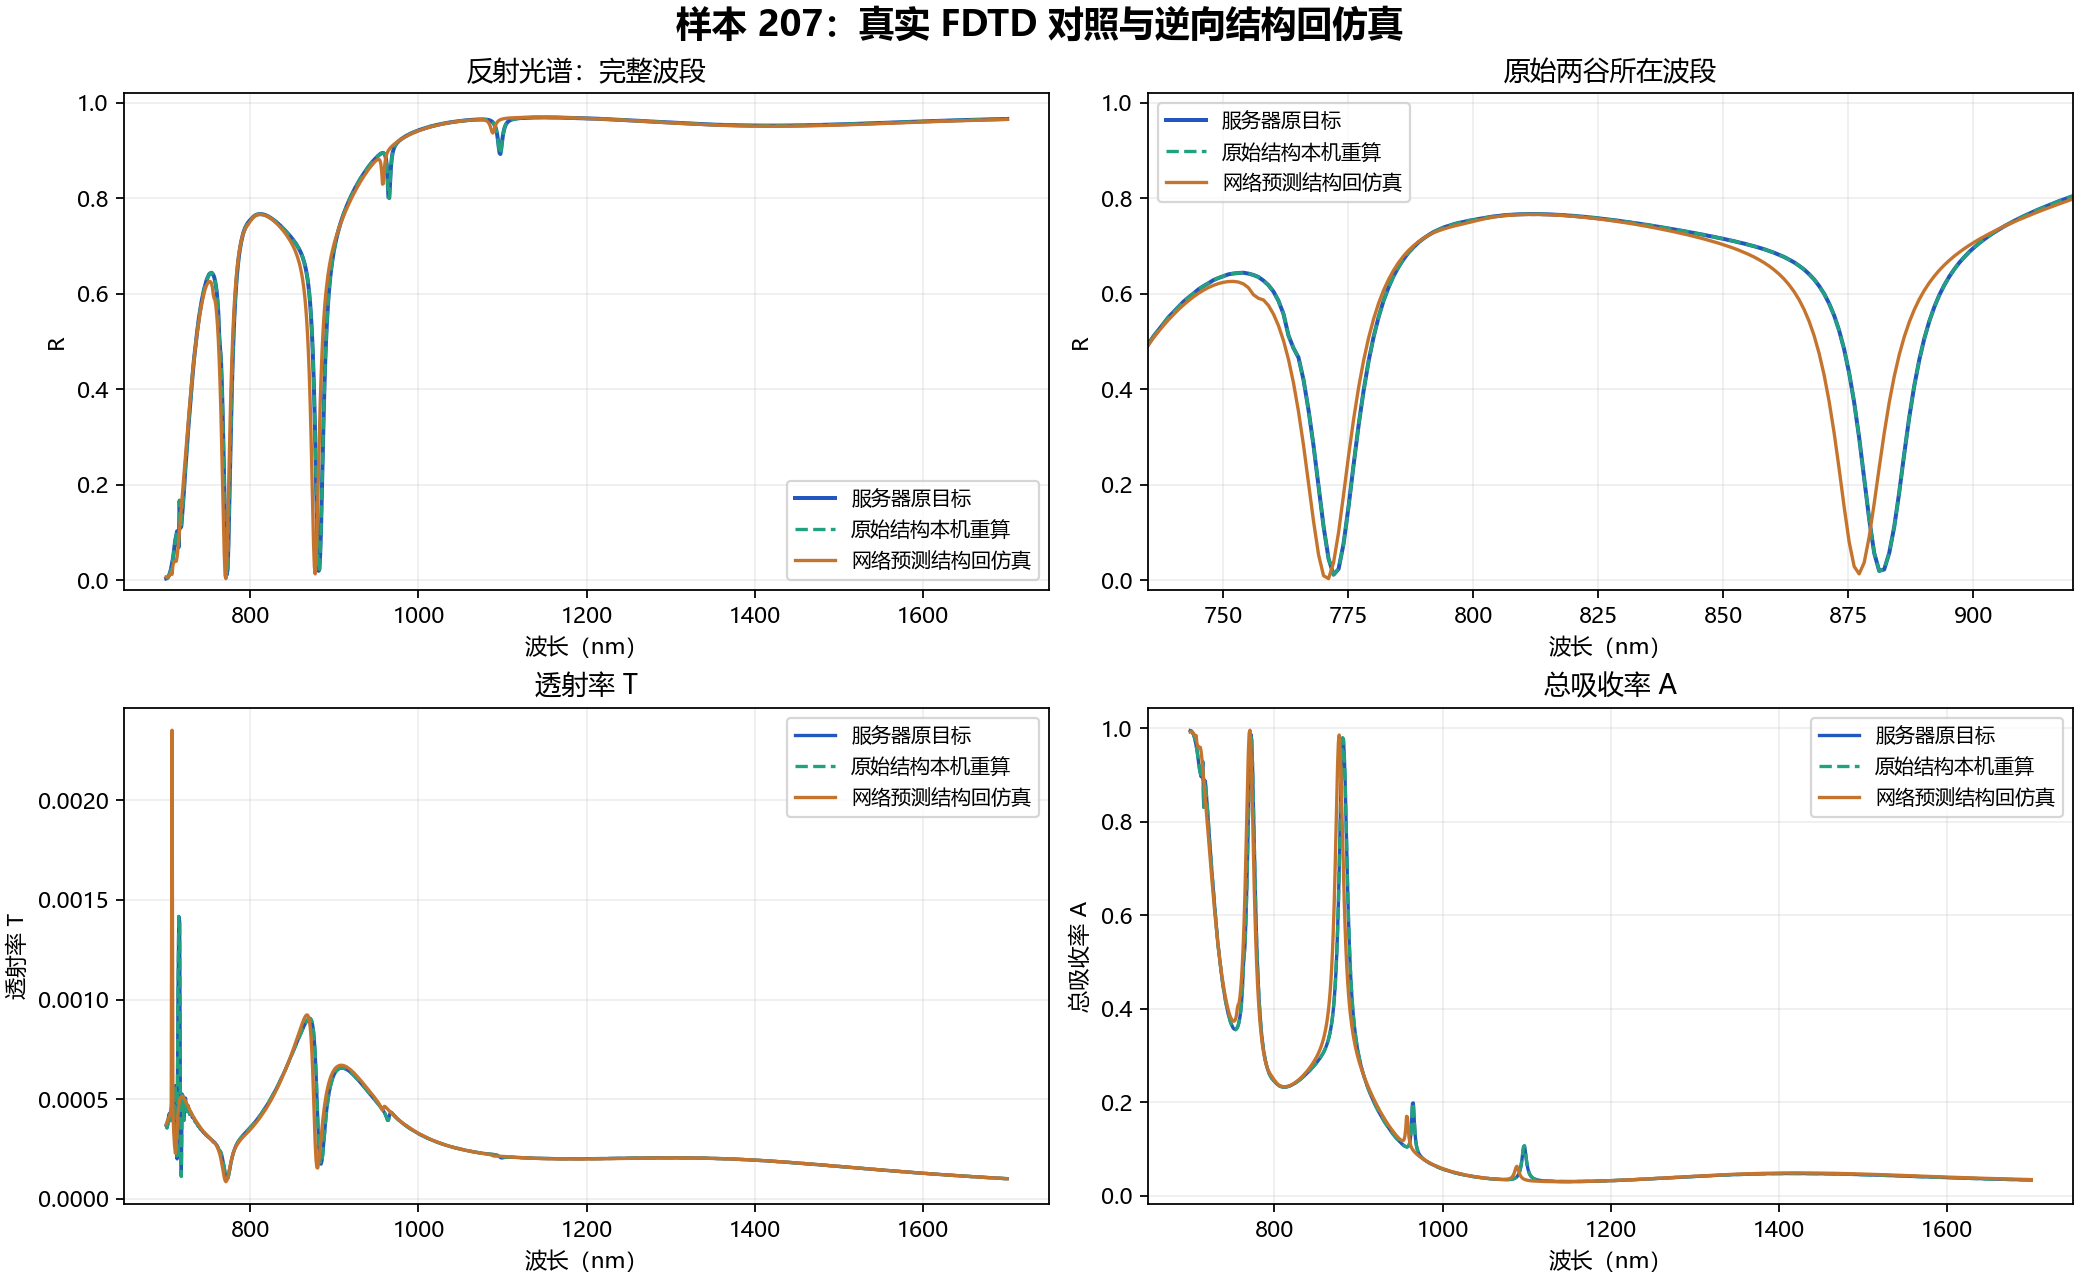
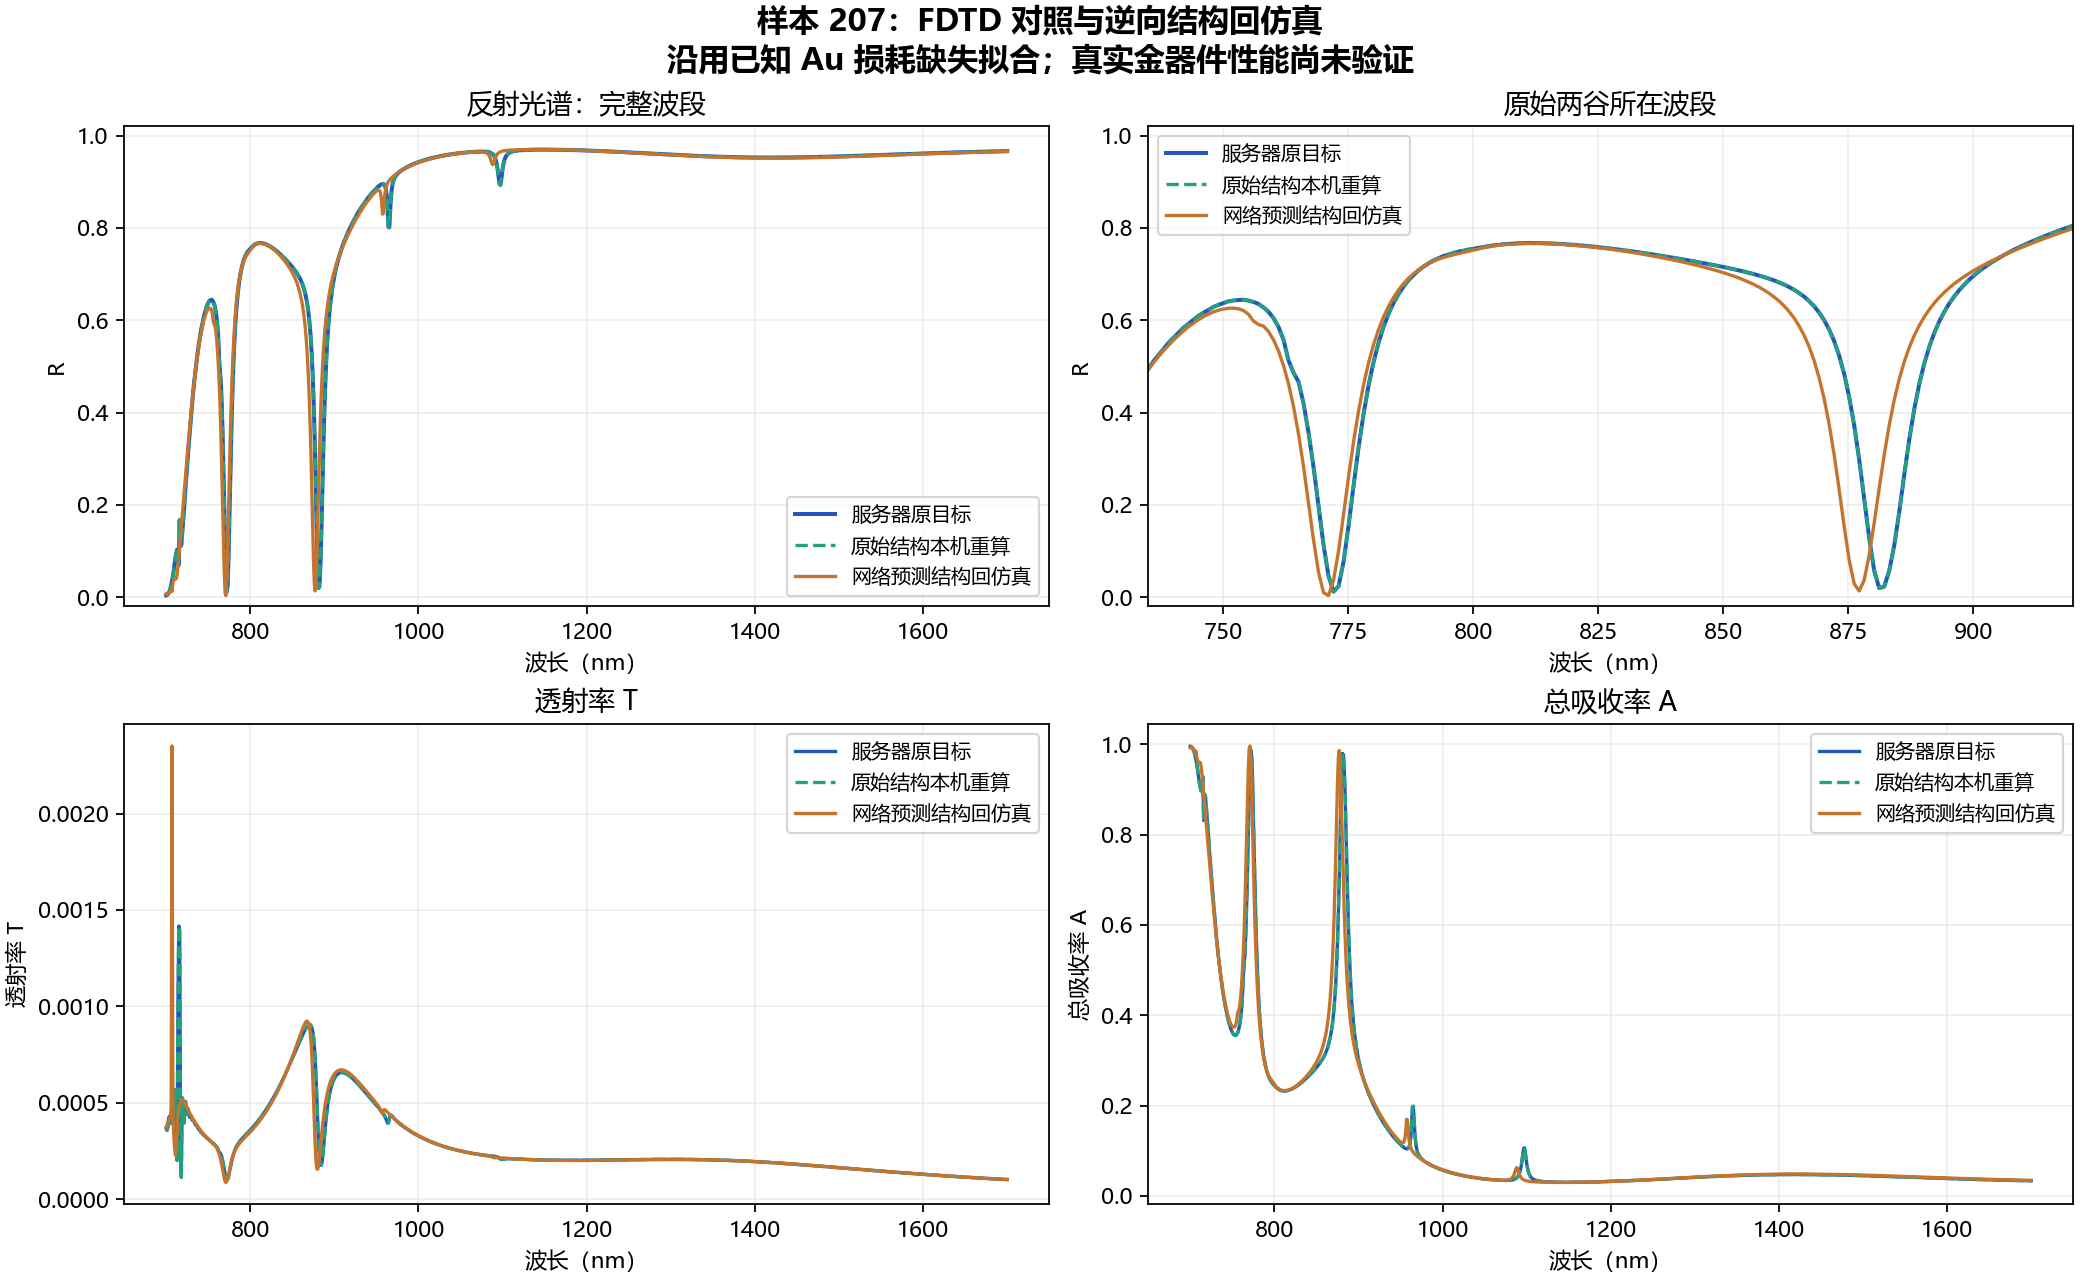
Clarify confirmed severe gold-loss fit limitation in server dataset

diff --git a/Metaformer_As2Se3/analyze_inverse207.py b/Metaformer_As2Se3/analyze_inverse207.py
@@ -17,6 +17,7 @@ OUTPUT=ROOT/'results/inverse_roundtrip_207'
 def analyze(reference_only=False):
     catalog=json.loads((ROOT/'results/feature_targets_1000/analysis.json').read_text(encoding='utf-8'))
     with np.load(ROOT/'examples/au100_metal8_1000/dataset.npz',allow_pickle=False) as archive:
+        dataset_metadata=json.loads(str(archive['metadata_json'].item()))
         matches=np.flatnonzero(archive['sample_ids']==207)
         assert len(matches)==1
         i=int(matches[0])
@@ -38,6 +39,8 @@ def analyze(reference_only=False):
         comparison=compare_curves(wavelength,source['spectra'],sample['reflectance'])
         cases[name]={'data':sample,'report':report,'source_comparison':comparison,'directory':directory}
     original=cases['reference']
+    source_gold=np.asarray(dataset_metadata['material_identity']['Au (Gold) - Palik']['fitted_index_ri'])
+    source_epsilon_imag=2*source_gold[:,0]*source_gold[:,1]
     result={'sample_id':207,'dataset_sha256':catalog['dataset_sha256'],
         'inverse_checkpoint_sha256':catalog['inverse_checkpoint_sha256'],
         'reference_only':reference_only,'reference_reproduction':original['source_comparison'],
@@ -52,6 +55,9 @@ def analyze(reference_only=False):
                       'mesh_audit':json.loads(str(case['data']['mesh_audit_json'].item()))}
                  for name,case in cases.items()},
         'quality_level':'pipeline_validation','model_or_source_data_modified':False,
+        'source_dataset_Au_fitted_imaginary_permittivity_range':
+            [float(source_epsilon_imag.min()),float(source_epsilon_imag.max())],
+        'material_limitation':'Known severe Au Ohmic-loss fit deficiency; numerical-model round trip only, not realistic gold-device validation',
         'scope':'Generator 1.0 Au100 below finite SiO2; not the 2.0 middle-metal stack'}
     if not reference_only:
         predicted=cases['prediction']
@@ -105,8 +111,8 @@ def plot(wavelength,source,cases,suffix):
         ax.set(xlabel='波长（nm）',ylabel=label,title=label)
         ax.grid(alpha=.2)
         ax.legend(fontsize=9)
-    fig.suptitle('样本 207：真实 FDTD 对照'+('（仅原始结构复现）' if len(cases)==1 else '与逆向结构回仿真'),
-                 fontsize=16,fontweight='bold')
+    fig.suptitle('样本 207：FDTD 对照'+('（仅原始结构复现）' if len(cases)==1 else '与逆向结构回仿真')+
+                 '\n沿用已知 Au 损耗缺失拟合；真实金器件性能尚未验证',fontsize=14,fontweight='bold')
     fig.savefig(OUTPUT/('spectral_comparison'+suffix+'.png'),dpi=160)
     plt.close(fig)
 

diff --git a/Metaformer_As2Se3/results/inverse_roundtrip_207/report.md b/Metaformer_As2Se3/results/inverse_roundtrip_207/report.md
@@ -1,5 +1,7 @@
 # 样本 207：逆向 Metaformer 的真实 FDTD 回仿真
 
+**材料限制：这批服务器数据和本次回仿真均沿用了已知严重缺失 Au 欧姆损耗的拟合。** 原始输入 Palik 损耗的审核见 [2026-10-18 材料更正](https://github.com/CypherZzzyer05/Report/blob/main/reports/2026-10-18_device_feasibility/README.md)。本次进一步确认，1000 样本数据存档的 Au 拟合 Im(ε) 也只有 **1.69e-7–2.60e-6**，与本机这套问题拟合一致。因此这里验证的是训练数据所用数值体系的闭环；真实 Au 器件性能必须在材料修正后重新验证。仅写“材料拟合未认证”不足以表达这项已知问题。
+
 **网络预测结构保留了两个明显深谷，但尚未达到此前参考门槛下的精确目标匹配。** 第一谷偏移约 1.0 nm，第二谷偏移约 4.0 nm；两谷深度和半突出度宽度变化均在参考范围内，第二谷位移超过 2 nm。
 
 这是冻结的 1000 样本逆向模型对一个此前未出现的测试结构的验证。目标光谱、结构预测和验证对象在求解前已存档，未根据回仿真结果重新挑选目标或修改网络输出。
@@ -50,7 +52,7 @@
 
 该预测与原始结构的两个角差异较大，但计算光谱仍有相似的主双谷；结构参数误差与光谱误差应分别评价。由于 P、dY 和两个角同时变化，本对照没有单独证明角度影响很小，也没有验证唯一逆映射。
 
-本次只有一个目标的回仿真，不能替代 100 条测试结构的光谱统计。此前的训练/验证/测试结构指标与原始数据保持不变。材料拟合精度仍未认证，数据保持 `pipeline_validation`；没有据半突出度宽度宣称模态 Q 或 BIC。
+本次只有一个目标的回仿真，不能替代 100 条测试结构的光谱统计。此前的训练/验证/测试结构指标与原始数据保持不变。Au 损耗拟合存在上述已知严重偏差，数据保持 `pipeline_validation`；没有据半突出度宽度宣称真实器件的吸收率、模态 Q 或 BIC。
 
 本次层序从下到上为 **Au 100 nm → 有限厚 SiO2 350 nm → As2Se3 四聚体**，与训练集一致。2.0 的厚 SiO2 / 中间 Au / 四聚体层序需要使用相应数据训练和验证。
 

diff --git a/Metaformer_As2Se3/results/inverse_au100_1000/report.md b/Metaformer_As2Se3/results/inverse_au100_1000/report.md
@@ -2,6 +2,8 @@
 
 1000 个原始 FDTD 样本全部校验通过，固定划分为训练 800、验证 100、测试 100。训练完成，五个尺寸参数的预测明显优于常数基线，两个旋转角仍未有效超过周期常数基线。
 
+材料更正：后续回仿真核对进一步确认，这批服务器数据也沿用了几乎丢失 Au 欧姆损耗的拟合，存档 Im(ε) 约为 1.69e-7–2.60e-6。这里的训练成绩用于验证数值流程；真实金器件的光谱预测需要修正材料后重新获取数据、训练和验证。[证据及回仿真记录](../inverse_roundtrip_207/report.md)
+
 本次使用生成器 **1.0** 数据：从下到上为 Au 100 nm、有限厚 SiO2、As2Se3 四聚体，700–1700 nm、1000 点反射光谱，金属层局部 8 nm 网格。本次未使用 2.0 的厚基板/中间金膜数据。
 
 ## 数据核对

diff --git a/README.md b/README.md
@@ -1,5 +1,7 @@
 # Optics_design
 
+**材料更正：1000 样本服务器数据也沿用了已知几乎丢失 Au 欧姆损耗的拟合。以下结果用于数值流程和模型对照，真实金器件性能需要修正材料后重新验证。** [证据](Metaformer_As2Se3/results/inverse_roundtrip_207/report.md)
+
 当前分支：`codex/train-au100-metal8-1000`。已完成生成器 1.0 的 1000 样本逆向训练，固定划分 800/100/100；[训练结果](Metaformer_As2Se3/results/inverse_au100_1000/report.md)包含数据核对、参数误差、图表和使用方式。
 
 模型保持 3,998,087 个参数，使用训练集光谱标准化。100 条测试 MSE 为 0.033422；在 88 个此前未出现的相同测试结构上，比旧 100 样本模型低 34.1%。五个尺寸参数明显改善，两个角仍约 21°。

diff --git a/Metaformer_As2Se3/README.md b/Metaformer_As2Se3/README.md
@@ -1,5 +1,7 @@
 # As₂Se₃ 四聚体：七参数近红外逆向设计
 
+**材料更正：已确认当前 1000 样本数据也沿用了严重缺失 Au 欧姆损耗的拟合。模型训练与回仿真验证针对这套数值体系，真实 Au 器件性能需在材料修正后重新验证。** [证据](results/inverse_roundtrip_207/report.md)
+
 ## 本分支：1000 样本训练与验证（2026-10-21）
 
 分支 `codex/train-au100-metal8-1000` 已查收并核对生成器 1.0 的 1000 条真实数据，固定使用 800/100/100 划分训练已选定的逆向模型。验证集选择第 35 轮权重，第 55 轮早停；测试 MSE 为 0.033422。在此前未出现的同一组 88 个测试结构上，比旧 100 样本模型降低 34.1%。五个尺寸参数改善，两个角仍约 21°。

diff --git a/Metaformer_As2Se3/results/feature_targets_1000/report.md b/Metaformer_As2Se3/results/feature_targets_1000/report.md
@@ -2,6 +2,8 @@
 
 更新：筛选之后已完成[样本 207 的原始结构对照及预测结构回仿真](../inverse_roundtrip_207/report.md)。双谷保留，中心偏移约 1.0/4.0 nm；第二谷位移未通过 2 nm 参考标准。下文图表和 `analysis.json` 保留验证前的候选记录，626、689 尚未回仿真。
 
+材料限制：这批数据的 Au 拟合几乎丢失欧姆损耗。下述结构关联和双谷候选均限于这套数值材料体系；在材料修正并重新求解前，不能把它们当作真实 Au 器件的设计规律。
+
 这份分析继续使用已核验的生成器 1.0 数据及冻结的逆向 Metaformer。没有改动训练划分、权重或已报告测试指标，也没有运行正向网络或新的电磁仿真。
 
 ## 观察到的结构关联
